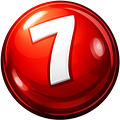
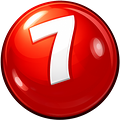
Bola do 7 sem a parte escura embaixo
- Clareada a metade de baixo da bola vermelha em todos os ícones, que ainda parecia sombra na barra de cima

Changed region(s): [[0.0, 0.075, 1.0, 1.0]]

diff --git a/lib/components/shell/default_layout.dart b/lib/components/shell/default_layout.dart
@@ -239,7 +239,10 @@ class _MarcaAppBarState extends State<_MarcaAppBar>
       // Sem sombra de propósito, nem na arte nem aqui: a bola original
       // vinha com uma sombra projetada embaixo que, na barra transparente,
       // lia como mancha escura grudada nela. A arte foi recortada no
-      // círculo exato da bola (images/icone.png e tudo gerado dele).
+      // círculo exato da bola, e a metade de baixo, que vinha pintada quase
+      // preta e continuava lendo como sombra em 40px, foi clareada no
+      // vermelho (brilhos e o 7 branco intactos). Vale para images/icone.png
+      // e tudo gerado dele.
       child: Image.asset(
         // As variantes 2.0x/3.0x ao lado do arquivo é que resolvem o
         // tamanho: o Flutter escolhe sozinho pelo DPR e cada tela desenha

diff --git a/web/index.html b/web/index.html
@@ -51,7 +51,7 @@
   <meta name="apple-mobile-web-app-title" content="Bolão Bolado">
   <!--
     Ícones no tamanho em que são exibidos, gerados a partir de
-    images/icone.png (799px, 730 KB). Apontar para o original fazia o
+    images/icone.png (799px, ~700 KB). Apontar para o original fazia o
     navegador baixar 860 KB para desenhar 16px na aba — e, por estar em
     assets/, o arquivo ainda entrava no precache do service worker.
   -->
